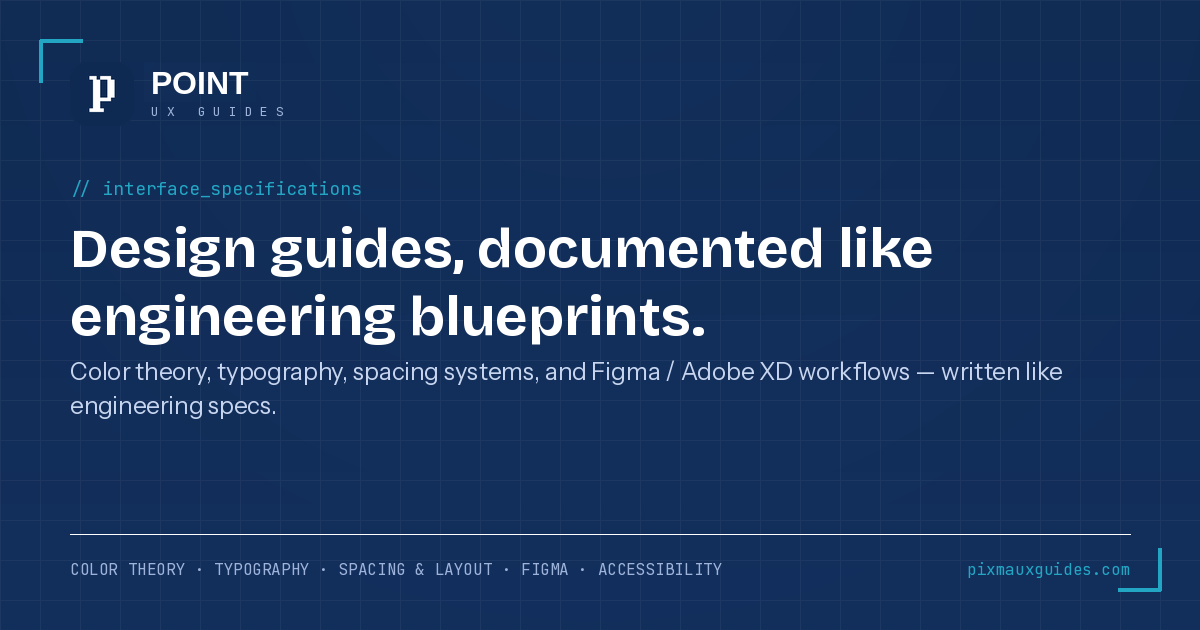
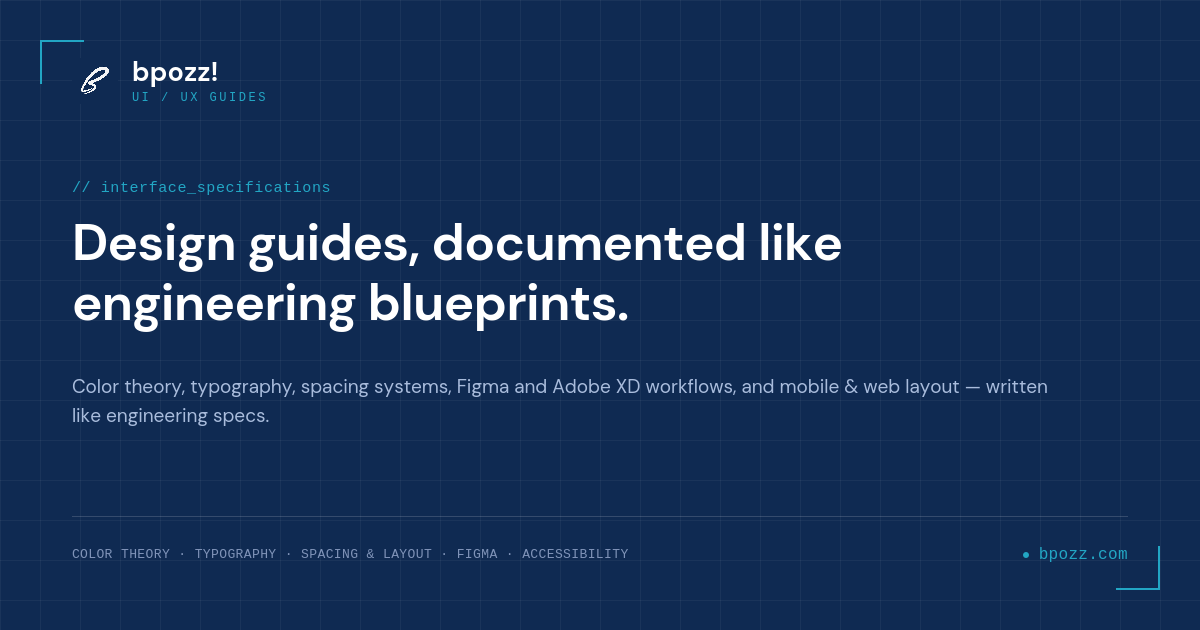
update website

diff --git a/guide-article.css b/guide-article.css
@@ -42,23 +42,7 @@
 }
 
 /* --------------------------------------------------------------------------
-   2. Breadcrumb
-   guide-crumb is the "← All guides" back-link wrapper (pairs with the
-   site's existing .page-view__back, already in styles.css). This is now
-   the ONE breadcrumb treatment for every /guide/*.html page — it used to
-   coexist with a separate, denser .guide-breadcrumb trail (a three-level
-   "All guides / Category / Title" nav in mono type, missing the .wrap
-   container so it sat flush against the viewport edge, and its middle
-   link pointed at a "#toolbar" anchor that doesn't exist on index.html).
-   That variant has been retired so every guide lines up with the same
-   flat, minimal back-link the rest of the site already uses.
-   -------------------------------------------------------------------------- */
-.guide-crumb {
-  padding-top: 24px;
-}
-
-/* --------------------------------------------------------------------------
-   3. Hero (eyebrow + title + dek + optional figure)
+   2. Hero (eyebrow + title + dek + optional figure)
    Figure reuses the exact blueprint-grid look of .article-hero /
    .card-thumb elsewhere on the site, so a diagram inside a guide reads
    as the same "spec sheet" object as a guide-card thumbnail.
@@ -120,7 +104,7 @@
 }
 
 /* --------------------------------------------------------------------------
-   4. Table of contents
+   3. Table of contents
    -------------------------------------------------------------------------- */
 .guide-toc {
   margin: 0 0 44px;
@@ -169,7 +153,7 @@
 }
 
 /* --------------------------------------------------------------------------
-   5. Prose — headings, paragraphs, lists, code, tables
+   4. Prose — headings, paragraphs, lists, code, tables
    -------------------------------------------------------------------------- */
 .guide-article {
   max-width: 68ch;
@@ -292,7 +276,7 @@
 }
 
 /* --------------------------------------------------------------------------
-   6. Callouts — one component, four semantic variants.
+   5. Callouts — one component, four semantic variants.
    Replaces the ad hoc "note" boxes each guide invented separately.
    -------------------------------------------------------------------------- */
 .guide-callout {
@@ -331,7 +315,7 @@
 }
 
 /* --------------------------------------------------------------------------
-   7. Example / comparison grid (do vs. don't, before vs. after)
+   6. Example / comparison grid (do vs. don't, before vs. after)
    -------------------------------------------------------------------------- */
 .guide-example {
   display: grid;
@@ -357,7 +341,7 @@
 }
 
 /* --------------------------------------------------------------------------
-   8. Recap — numbered end-of-section summary
+   7. Recap — numbered end-of-section summary
    -------------------------------------------------------------------------- */
 .guide-recap {
   margin: 0;
@@ -402,7 +386,7 @@
 }
 
 /* --------------------------------------------------------------------------
-   9. CTA — reuses the site's real .btn-primary instead of a bespoke button
+   8. CTA — reuses the site's real .btn-primary instead of a bespoke button
    -------------------------------------------------------------------------- */
 .guide-cta {
   margin-top: 64px;
@@ -428,7 +412,7 @@
 }
 
 /* --------------------------------------------------------------------------
-   10. Diagram — dark-frame technical illustration, for mid-article figures
+   9. Diagram — dark-frame technical illustration, for mid-article figures
    (as opposed to .guide-hero__figure, which is the lead image up top).
    These are hand-authored, multi-color inline SVGs (accent lines, state
    comparisons, etc.) with colors baked into the markup on purpose — the
@@ -508,7 +492,7 @@
 }
 
 /* --------------------------------------------------------------------------
-   11. Footer nav — sequential prev/next between guides (roadmap order),
+   10. Footer nav — sequential prev/next between guides (roadmap order),
    distinct from .guide-rail's topic-related suggestions below the article.
    -------------------------------------------------------------------------- */
 .guide-footer-nav {
@@ -546,7 +530,7 @@
 }
 
 /* --------------------------------------------------------------------------
-   12. Spec sheet — a bordered term/value reference box (e.g. a "the spec"
+   11. Spec sheet — a bordered term/value reference box (e.g. a "the spec"
    closing section), distinct from .guide-callout (a note, not a lookup
    table) and .guide-recap (a numbered list, not term/value pairs).
    -------------------------------------------------------------------------- */

diff --git a/index.html b/index.html
@@ -68,10 +68,7 @@
       property="og:description"
       content="bpozz is a curated library of practical UI/UX tutorials — color theory, typography, spacing systems, Figma and Adobe XD workflows, and mobile & web layout, written like engineering specs."
     />
-    <meta
-      property="og:image"
-      content="https://bpozz.com/og-image.png"
-    />
+    <meta property="og:image" content="https://bpozz.com/og-image.png" />
     <meta property="og:image:width" content="1200" />
     <meta property="og:image:height" content="630" />
     <meta
@@ -90,10 +87,7 @@
       name="twitter:description"
       content="bpozz is a curated library of practical UI/UX tutorials — color theory, typography, spacing systems, Figma and Adobe XD workflows, and mobile & web layout, written like engineering specs."
     />
-    <meta
-      name="twitter:image"
-      content="https://bpozz.com/og-image.png"
-    />
+    <meta name="twitter:image" content="https://bpozz.com/og-image.png" />
 
     <meta name="theme-color" content="#0F2A52" />
     <link rel="icon" type="image/png" href="/assets/favicon.png" />
@@ -333,28 +327,19 @@
           <div class="trending fade-up">
             <p class="trending__label">/ trending_categories</p>
             <div class="trending__grid">
-              <a
-                class="trending-card"
-                href="/category/color-theory"
-              >
+              <a class="trending-card" href="/category/color-theory">
                 <span class="trending-card__thumb"
                   ><img src="/assets/Color Theory.png" alt="" loading="lazy"
                 /></span>
                 <span class="trending-card__label">Color Theory</span>
               </a>
-              <a
-                class="trending-card"
-                href="/category/typography"
-              >
+              <a class="trending-card" href="/category/typography">
                 <span class="trending-card__thumb"
                   ><img src="/assets/Typography.png" alt="" loading="lazy"
                 /></span>
                 <span class="trending-card__label">Typography</span>
               </a>
-              <a
-                class="trending-card"
-                href="/category/spacing"
-              >
+              <a class="trending-card" href="/category/spacing">
                 <span class="trending-card__thumb"
                   ><img
                     src="/assets/Spacing & Layout.png"
@@ -363,19 +348,13 @@
                 /></span>
                 <span class="trending-card__label">Spacing &amp; Layout</span>
               </a>
-              <a
-                class="trending-card"
-                href="/category/figma"
-              >
+              <a class="trending-card" href="/category/figma">
                 <span class="trending-card__thumb"
                   ><img src="/assets/Figma Workflow.png" alt="" loading="lazy"
                 /></span>
                 <span class="trending-card__label">Figma Workflow</span>
               </a>
-              <a
-                class="trending-card"
-                href="/category/accessibility"
-              >
+              <a class="trending-card" href="/category/accessibility">
                 <span class="trending-card__thumb"
                   ><img src="/assets/Accessibility.png" alt="" loading="lazy"
                 /></span>
@@ -580,7 +559,6 @@
       to roadmap.html by app.js's handleRoute().
     -->
     <div class="wrap page-view" id="page-view" tabindex="-1" hidden>
-      <a href="#" class="page-view__back mono">← All guides</a>
       <div class="page-view-body" id="page-view-body"></div>
     </div>
 

diff --git a/styles.css b/styles.css
@@ -990,20 +990,15 @@ body:has(#mobile-menu:not([hidden])) {
 }
 
 /* ---------- category pages (/category/<slug>.html) ----------
-   Minimal per-category archive page, resourceboy.com-style: a plain
-   breadcrumb back-link, a short title + one-line description, then the
-   exact same .guides-main/.grid/.guide-card markup as the homepage grid
-   (see build-categories.js) so a category page reads as a filtered
-   slice of the homepage rather than a separately-designed template.
+   Minimal per-category archive page, resourceboy.com-style: a short
+   title + one-line description, then the exact same
+   .guides-main/.grid/.guide-card markup as the homepage grid (see
+   build-categories.js) so a category page reads as a filtered slice
+   of the homepage rather than a separately-designed template.
    Deliberately NOT reusing guide-article.css's .guide-hero here — that
-   stylesheet is article-only and isn't linked on these pages — these
-   two rules give an equivalent title/dek treatment at the same type
-   scale, scoped to this file instead. .category-crumb mirrors
-   guide-article.css's .guide-crumb (same padding-top) for the same
-   reason. */
-.category-crumb {
-  padding-top: 24px;
-}
+   stylesheet is article-only and isn't linked on these pages — this
+   rule gives an equivalent title/dek treatment at the same type
+   scale, scoped to this file instead. */
 .category-hero {
   padding: 20px 0 8px;
 }
@@ -1442,21 +1437,6 @@ body:has(#mobile-menu:not([hidden])) {
     opacity: 1;
     transform: translateY(0);
   }
-}
-.page-view__back {
-  display: inline-flex;
-  align-items: center;
-  gap: 6px;
-  font-size: 12.5px;
-  font-weight: 700;
-  letter-spacing: 0.02em;
-  color: var(--action);
-  text-decoration: none;
-  margin-bottom: 28px;
-}
-.page-view__back:hover {
-  color: var(--action-hover);
-  text-decoration: underline;
 }
 .page-view-body {
   max-width: 760px;

diff --git a/build-categories.js b/build-categories.js
@@ -5,8 +5,8 @@
  * Generates one standalone, crawlable archive page per category —
  * category/color-theory.html, category/typography.html, etc. — from
  * guides.json. Each page is a resourceboy.com/fonts/-style listing: a
- * "← All guides" back-link, a short title + one-line description, then
- * the SAME .guides-main/.grid/.guide-card markup the homepage grid uses
+ * short title + one-line description, then the SAME
+ * .guides-main/.grid/.guide-card markup the homepage grid uses
  * (cardHtml() below is ported 1:1 from build-home.js — keep the two in
  * sync the same way build-home.js already keeps itself in sync with
  * app.js's client-side renderer; see the note at the top of that file).
@@ -405,10 +405,6 @@ function pageHtml(slug, guides, headerPartial, footerPartial) {
     <a href="#category-content" class="skip-link">Skip to guides</a>
 
     <!--HEADER_START-->${headerPartial}<!--HEADER_END-->
-
-    <div class="wrap category-crumb">
-      <a href="../index.html#guides" class="page-view__back mono">← All guides</a>
-    </div>
 
     <main class="wrap guides-main" id="category-content" tabindex="-1">
       <div class="category-hero">

diff --git a/category/spacing.html b/category/spacing.html
@@ -259,10 +259,6 @@
   </div>
 </header><!--HEADER_END-->
 
-    <div class="wrap category-crumb">
-      <a href="../index.html#guides" class="page-view__back mono">← All guides</a>
-    </div>
-
     <main class="wrap guides-main" id="category-content" tabindex="-1">
       <div class="category-hero">
         <p class="section-label mono">/ spacing_layout</p>

diff --git a/category/systems.html b/category/systems.html
@@ -259,10 +259,6 @@
   </div>
 </header><!--HEADER_END-->
 
-    <div class="wrap category-crumb">
-      <a href="../index.html#guides" class="page-view__back mono">← All guides</a>
-    </div>
-
     <main class="wrap guides-main" id="category-content" tabindex="-1">
       <div class="category-hero">
         <p class="section-label mono">/ design_systems</p>

diff --git a/category/accessibility.html b/category/accessibility.html
@@ -259,10 +259,6 @@
   </div>
 </header><!--HEADER_END-->
 
-    <div class="wrap category-crumb">
-      <a href="../index.html#guides" class="page-view__back mono">← All guides</a>
-    </div>
-
     <main class="wrap guides-main" id="category-content" tabindex="-1">
       <div class="category-hero">
         <p class="section-label mono">/ accessibility</p>

diff --git a/category/color-theory.html b/category/color-theory.html
@@ -259,10 +259,6 @@
   </div>
 </header><!--HEADER_END-->
 
-    <div class="wrap category-crumb">
-      <a href="../index.html#guides" class="page-view__back mono">← All guides</a>
-    </div>
-
     <main class="wrap guides-main" id="category-content" tabindex="-1">
       <div class="category-hero">
         <p class="section-label mono">/ color_theory</p>

diff --git a/category/motion.html b/category/motion.html
@@ -259,10 +259,6 @@
   </div>
 </header><!--HEADER_END-->
 
-    <div class="wrap category-crumb">
-      <a href="../index.html#guides" class="page-view__back mono">← All guides</a>
-    </div>
-
     <main class="wrap guides-main" id="category-content" tabindex="-1">
       <div class="category-hero">
         <p class="section-label mono">/ prototyping</p>

diff --git a/category/mobile.html b/category/mobile.html
@@ -259,10 +259,6 @@
   </div>
 </header><!--HEADER_END-->
 
-    <div class="wrap category-crumb">
-      <a href="../index.html#guides" class="page-view__back mono">← All guides</a>
-    </div>
-
     <main class="wrap guides-main" id="category-content" tabindex="-1">
       <div class="category-hero">
         <p class="section-label mono">/ mobile_app</p>

diff --git a/category/typography.html b/category/typography.html
@@ -259,10 +259,6 @@
   </div>
 </header><!--HEADER_END-->
 
-    <div class="wrap category-crumb">
-      <a href="../index.html#guides" class="page-view__back mono">← All guides</a>
-    </div>
-
     <main class="wrap guides-main" id="category-content" tabindex="-1">
       <div class="category-hero">
         <p class="section-label mono">/ typography</p>

diff --git a/category/web.html b/category/web.html
@@ -259,10 +259,6 @@
   </div>
 </header><!--HEADER_END-->
 
-    <div class="wrap category-crumb">
-      <a href="../index.html#guides" class="page-view__back mono">← All guides</a>
-    </div>
-
     <main class="wrap guides-main" id="category-content" tabindex="-1">
       <div class="category-hero">
         <p class="section-label mono">/ web_layout</p>
